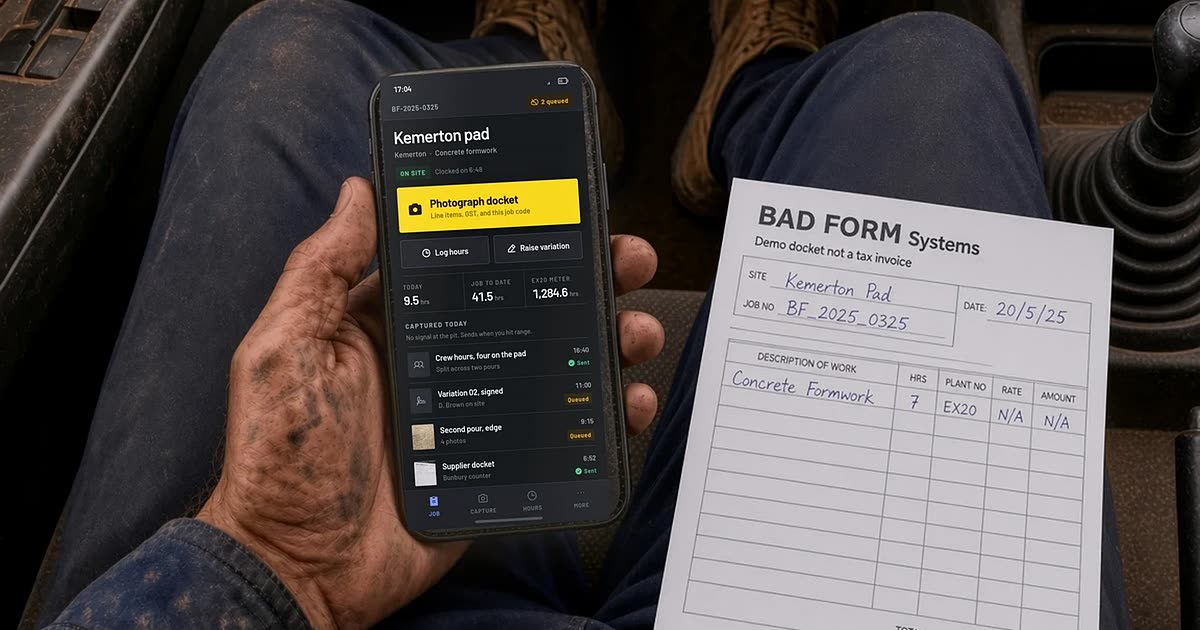
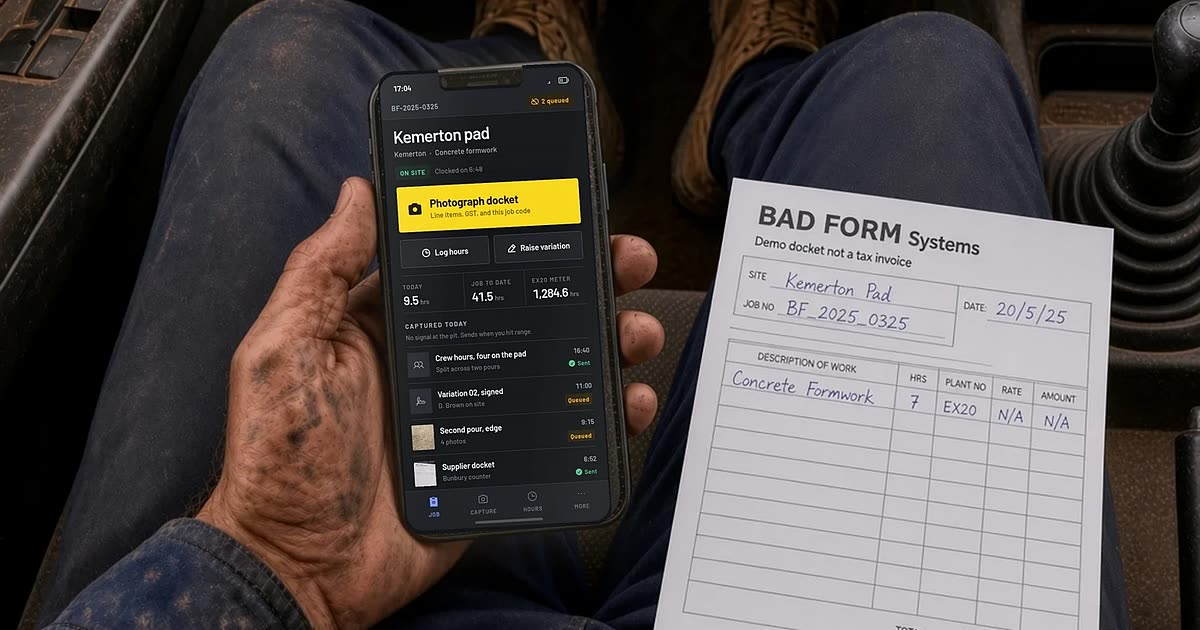
Sit the field app in the photographed glass
The overlay was a sharp rectangle mapped past the bezel, so it covered the
camera, ignored the rounded screen, and left the original generated UI
showing around the edges. That is what made the phones look pasted on.

The UI is now masked to a local-space iPhone shape (rounded glass plus a
notch hole) and warped with the same homography, so the photographed camera
and chassis show through. A dark underlay, slightly larger than the UI, covers
the original generated screen so it cannot peek as a blue or dusty frame.

Blur is applied inside the mask. Headless Chrome gets its own user-data-dir
so a GUI Chrome session no longer kills the stills shoot.

diff --git a/src/components/lab/composite/StillComposite.tsx b/src/components/lab/composite/StillComposite.tsx
@@ -8,8 +8,10 @@ interface StillCompositeProps {
   debug?: boolean;
 }
 
-/** Push the mapped screen slightly past the photographed bezel so no old glass shows at the seam. */
+/** Grow or shrink the mapped quad. Phones stay at 0 so the glass mask can meet the bezel. */
 function expandQuad(quad: Quad, pixels: number): Quad {
+  if (pixels === 0) return quad;
+
   const centreX = quad.reduce((sum, point) => sum + point[0], 0) / 4;
   const centreY = quad.reduce((sum, point) => sum + point[1], 0) / 4;
 
@@ -27,11 +29,12 @@ function quadWidth(quad: Quad): number {
 
 export function StillComposite({ still, debug = false }: StillCompositeProps) {
   const { stage, screen, glass } = still;
-  const screenQuad = expandQuad(still.quad, 2);
+  const screenQuad = expandQuad(still.quad, glass.expand);
   const spillQuad = expandQuad(still.quad, glass.spillBlur * 0.9);
 
   const scale = quadWidth(screenQuad) / screen.width;
   const angle = quadTopAngle(still.quad);
+  const isPhone = still.device === "phone";
 
   const screenTransform = matrix3dForQuad(screen.width, screen.height, screenQuad);
   const spillTransform = matrix3dForQuad(screen.width, screen.height, spillQuad);
@@ -57,37 +60,58 @@ export function StillComposite({ still, debug = false }: StillCompositeProps) {
         aria-hidden="true"
       />
 
+      {isPhone ? (
+        <div
+          className="still-layer still-phone-cover"
+          style={{
+            width: `${screen.width}px`,
+            height: `${screen.height}px`,
+            transform: matrix3dForQuad(
+              screen.width,
+              screen.height,
+              expandQuad(still.quad, glass.expand + 5),
+            ),
+            background: still.paint === "dusk" ? "#14161a" : "#eef0f3",
+          }}
+          aria-hidden="true"
+        />
+      ) : null}
+
       <div
         className="still-layer"
         style={{
           width: `${screen.width}px`,
           height: `${screen.height}px`,
           transform: screenTransform,
-          filter: `brightness(${glass.brightness}) blur(${(glass.blur / scale).toFixed(2)}px)`,
         }}
       >
-        <div className="still-screen-inner">
-          {still.device === "phone" ? (
-            <PhoneIms paint={still.paint} />
-          ) : (
-            <DeskIms paint={still.paint} />
-          )}
-
+        {/* Blur lives inside the mask. On the outer layer it would halo past the
+            glass and paint a rectangle of UI onto the bezel and the camera. */}
+        <div className={isPhone ? "still-screen-inner still-phone-glass" : "still-screen-inner"}>
           <div
-            className="still-grade"
-            style={{ background: glass.tint, opacity: glass.tintOpacity }}
-            aria-hidden="true"
-          />
-          <div
-            className="still-sheen"
+            className="still-screen-body"
             style={{
-              background: `linear-gradient(${(angle + 104).toFixed(1)}deg, rgb(255 255 255 / 0.9) 0%, rgb(255 255 255 / 0) 34%, rgb(255 255 255 / 0) 68%, rgb(255 255 255 / 0.5) 100%)`,
-              opacity: glass.sheenOpacity,
+              filter: `brightness(${glass.brightness}) blur(${(glass.blur / scale).toFixed(2)}px)`,
             }}
-            aria-hidden="true"
-          />
-          <div className="still-falloff" aria-hidden="true" />
-          <div className="still-grain" aria-hidden="true" />
+          >
+            {isPhone ? <PhoneIms paint={still.paint} /> : <DeskIms paint={still.paint} />}
+
+            <div
+              className="still-grade"
+              style={{ background: glass.tint, opacity: glass.tintOpacity }}
+              aria-hidden="true"
+            />
+            <div
+              className="still-sheen"
+              style={{
+                background: `linear-gradient(${(angle + 104).toFixed(1)}deg, rgb(255 255 255 / 0.9) 0%, rgb(255 255 255 / 0) 34%, rgb(255 255 255 / 0) 68%, rgb(255 255 255 / 0.5) 100%)`,
+                opacity: glass.sheenOpacity,
+              }}
+              aria-hidden="true"
+            />
+            <div className="still-falloff" aria-hidden="true" />
+            <div className="still-grain" aria-hidden="true" />
+          </div>
         </div>
       </div>
 

diff --git a/src/content/stills.ts b/src/content/stills.ts
@@ -29,6 +29,11 @@ export type StillPlate = {
     /** Light spill from the screen onto the surrounding photograph. */
     spillOpacity: number;
     spillBlur: number;
+    /**
+     * Grow the mapped quad past the bezel. Phones must stay at 0: the glass is
+     * rounded and notched, so expanding a rectangle puts UI on the chassis.
+     */
+    expand: number;
   };
   alt: string;
   note: string;
@@ -53,10 +58,11 @@ export const stillPlates: Record<StillSlug, StillPlate> = {
       brightness: 1.02,
       tint: "#f0d9a8",
       tintOpacity: 0.06,
-      blur: 0.35,
+      blur: 0.2,
       sheenOpacity: 0.1,
       spillOpacity: 0.16,
       spillBlur: 26,
+      expand: 3,
     },
     alt: "Overhead in a dusty ute: a work-worn hand holding a phone open to the demo field app, with a paper docket on the other thigh.",
     note: "Demo field app in the glass. Not a live customer job.",
@@ -79,10 +85,11 @@ export const stillPlates: Record<StillSlug, StillPlate> = {
       brightness: 1.04,
       tint: "#ffe9c2",
       tintOpacity: 0.05,
-      blur: 0.25,
+      blur: 0.15,
       sheenOpacity: 0.13,
       spillOpacity: 0.1,
       spillBlur: 30,
+      expand: 4,
     },
     alt: "A work-worn hand holding a phone open to the demo field app: one job, one capture button, and the day's captures underneath.",
     note: "Demo field app in the glass. Not a live customer job.",
@@ -109,6 +116,7 @@ export const stillPlates: Record<StillSlug, StillPlate> = {
       sheenOpacity: 0.07,
       spillOpacity: 0.08,
       spillBlur: 34,
+      expand: 1,
     },
     alt: "Site-office laptop open on the demo jobs board, with hi-vis, a two-way radio, and paper dockets in a South West yard office.",
     note: "Demo jobs board in the glass. Not a live customer system.",

diff --git a/src/app/lab/composite/composite.css b/src/app/lab/composite/composite.css
@@ -33,6 +33,33 @@
   overflow: hidden;
 }
 
+.still-screen-body {
+  position: relative;
+  width: 100%;
+  height: 100%;
+}
+
+.still-phone-cover {
+  -webkit-mask-image: url("/images/ims/phone-glass.svg");
+  -webkit-mask-size: 100% 100%;
+  -webkit-mask-repeat: no-repeat;
+  mask-image: url("/images/ims/phone-glass.svg");
+  mask-size: 100% 100%;
+  mask-repeat: no-repeat;
+}
+
+.still-phone-glass {
+  /* Rounded display plus a notch, in local 390x844 space, then warped with the
+     screen. Without this the overlay is a sharp rectangle that covers the
+     camera and the chassis corners. */
+  -webkit-mask-image: url("/images/ims/phone-glass.svg");
+  -webkit-mask-size: 100% 100%;
+  -webkit-mask-repeat: no-repeat;
+  mask-image: url("/images/ims/phone-glass.svg");
+  mask-size: 100% 100%;
+  mask-repeat: no-repeat;
+}
+
 .still-grade,
 .still-sheen,
 .still-grain,

diff --git a/docs/homepage-redesign.md b/docs/homepage-redesign.md
@@ -72,7 +72,8 @@ Pipeline:
 1. `src/content/stills.ts` holds each plate, its output name, the app size, the measured screen quad, and the glass grading.
 2. `npm run quad hand|desk` measures a plate's screen quad by walking scan lines for the dark screen edge and fitting lines to the result. The `cab` plate cannot be detected (its photographed screen was already near black against a black bezel); that quad was stepped out by hand and checked with `/lab/composite/cab?debug=1`.
 3. `/lab/composite/<slug>` renders the live `PhoneIms` or `DeskIms` inside a four-point projective `matrix3d` mapped onto that quad, with the glass layers over it.
-4. `npm run stills` (dev server must be running) screenshots each composite at 2x and encodes webp.
+4. Phone plates get a local-space glass mask (`public/images/ims/phone-glass.svg`): a rounded display plus a notch hole, so the photographed camera and bezel show through. A dark underlay, warped slightly larger than the UI, covers the original generated screen so it cannot peek around the edges. Blur is applied inside the mask, never on the warped layer, or it halos onto the chassis.
+5. `npm run stills` (dev server must be running) screenshots each composite at 2x and encodes webp. Headless Chrome needs its own `--user-data-dir` if a GUI Chrome is already open.
 
 Reshoot after any change to the app screens, or the photographs will disagree with the live ones sitting beside them on the page.
 
